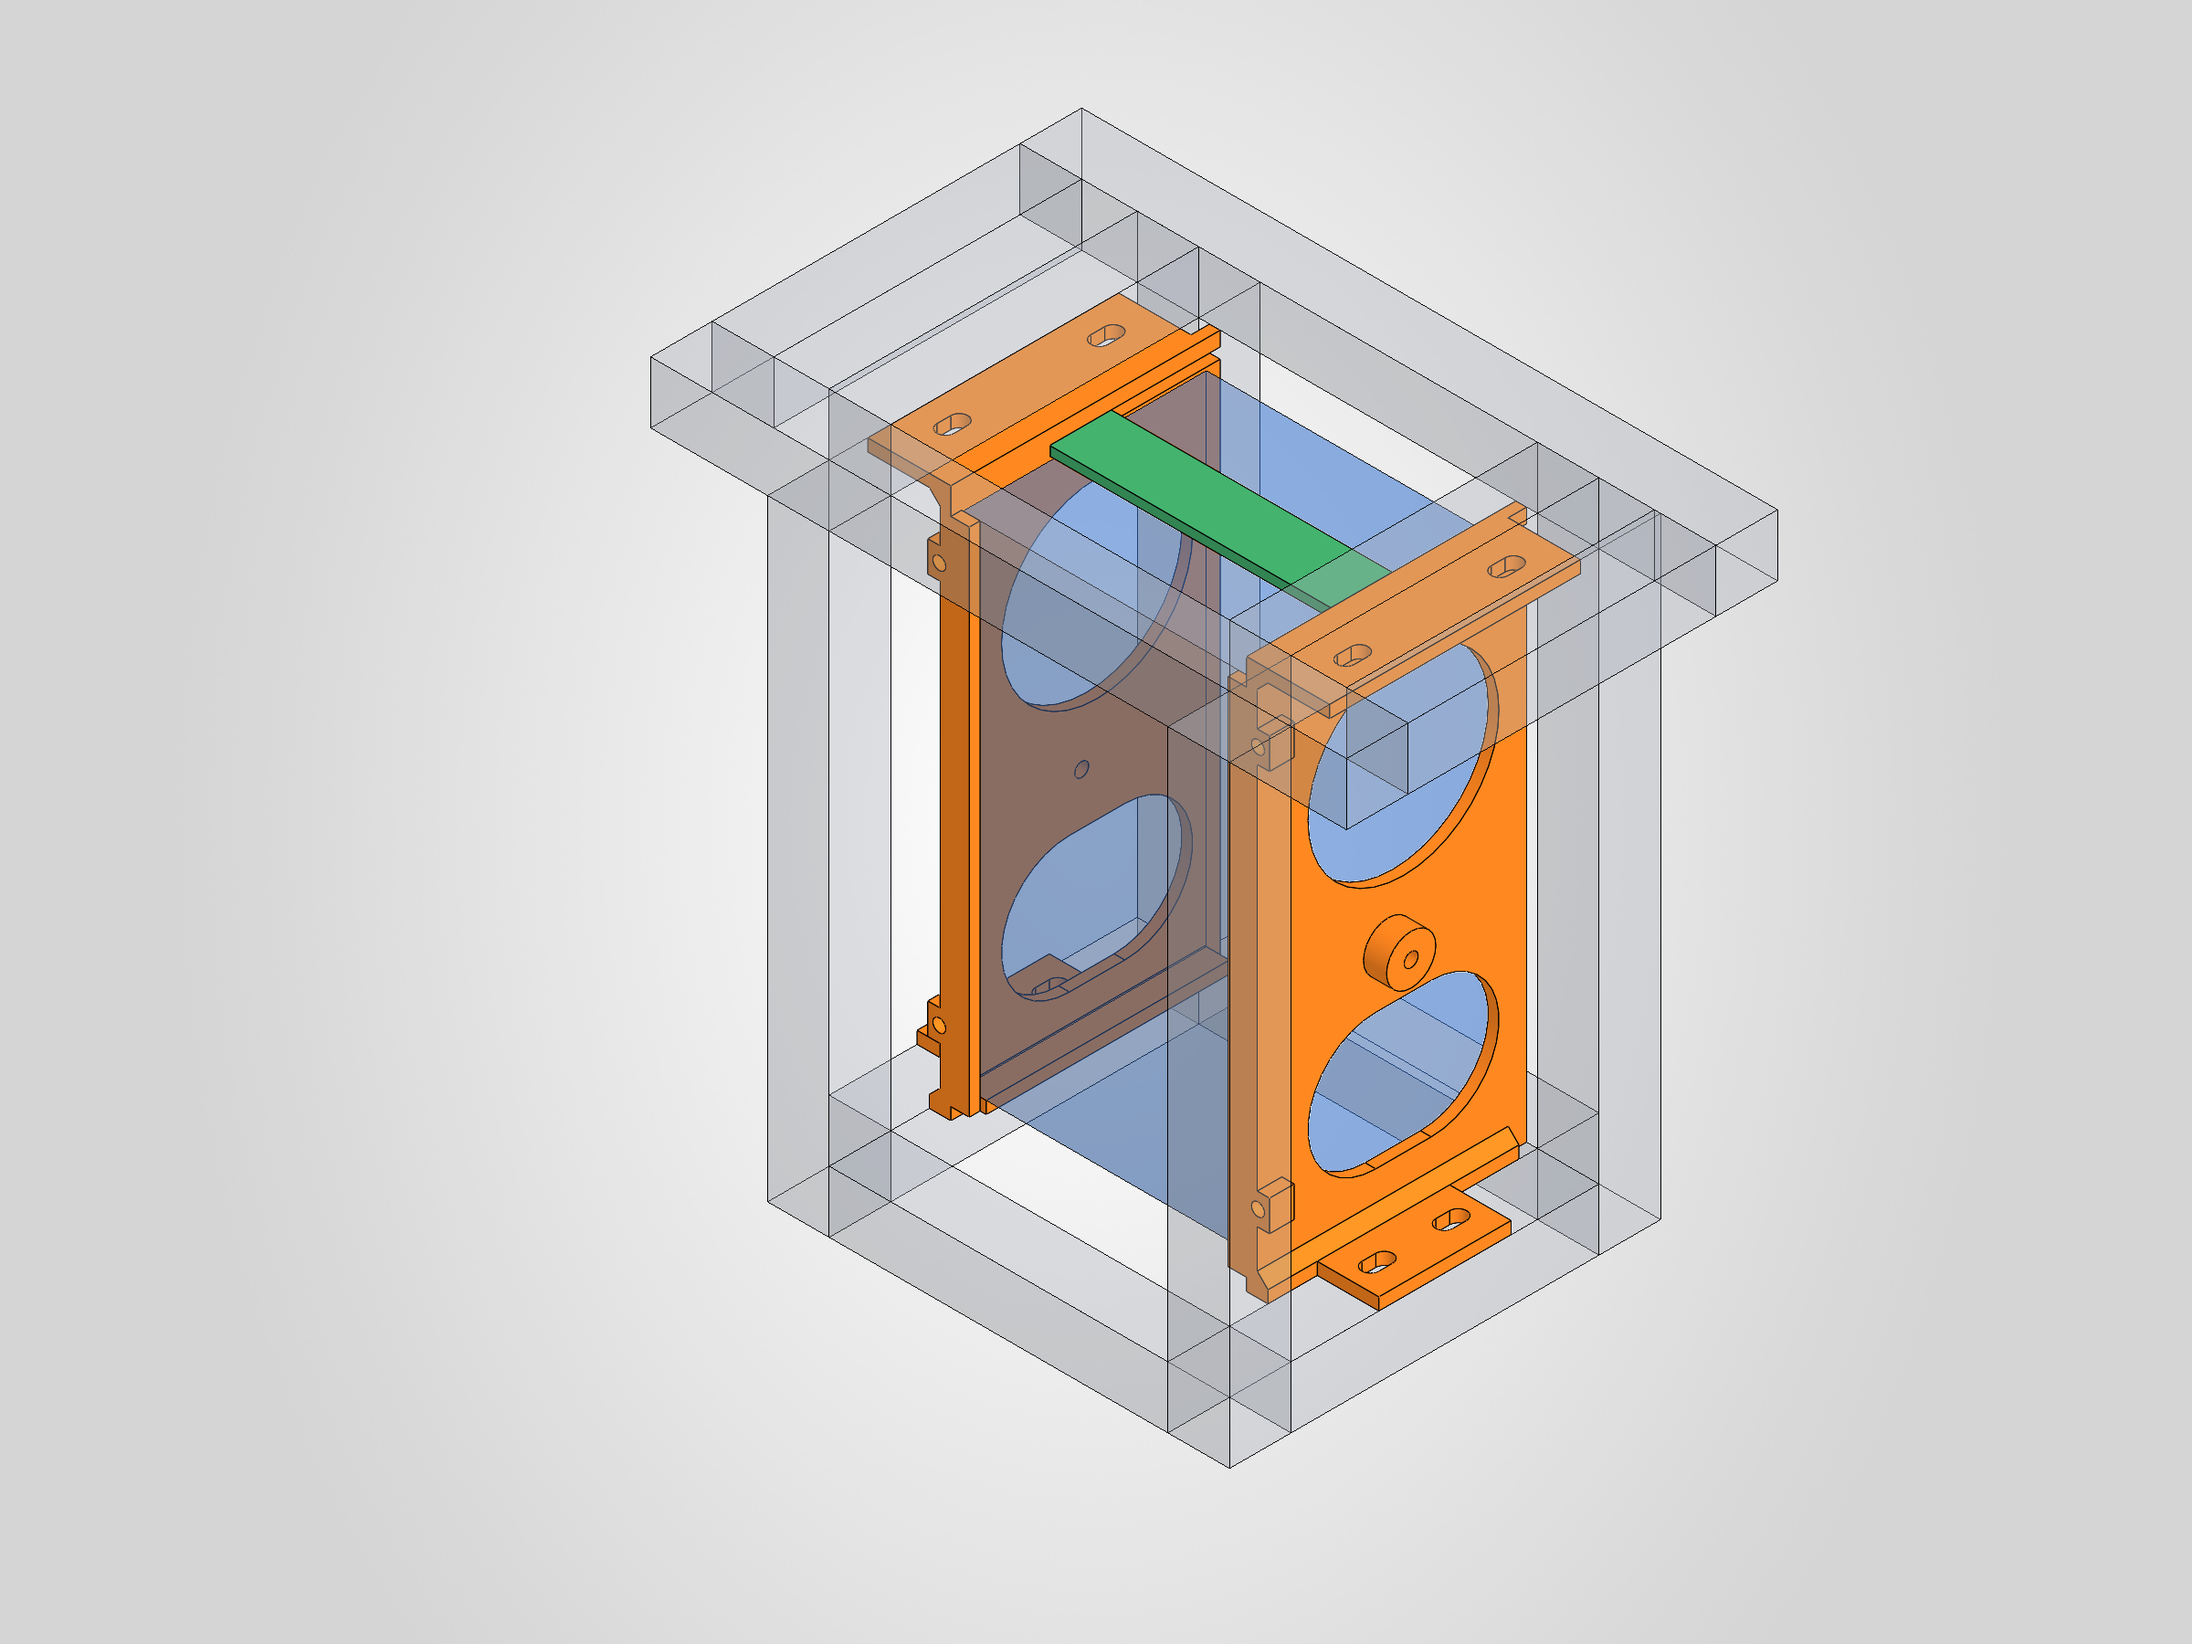
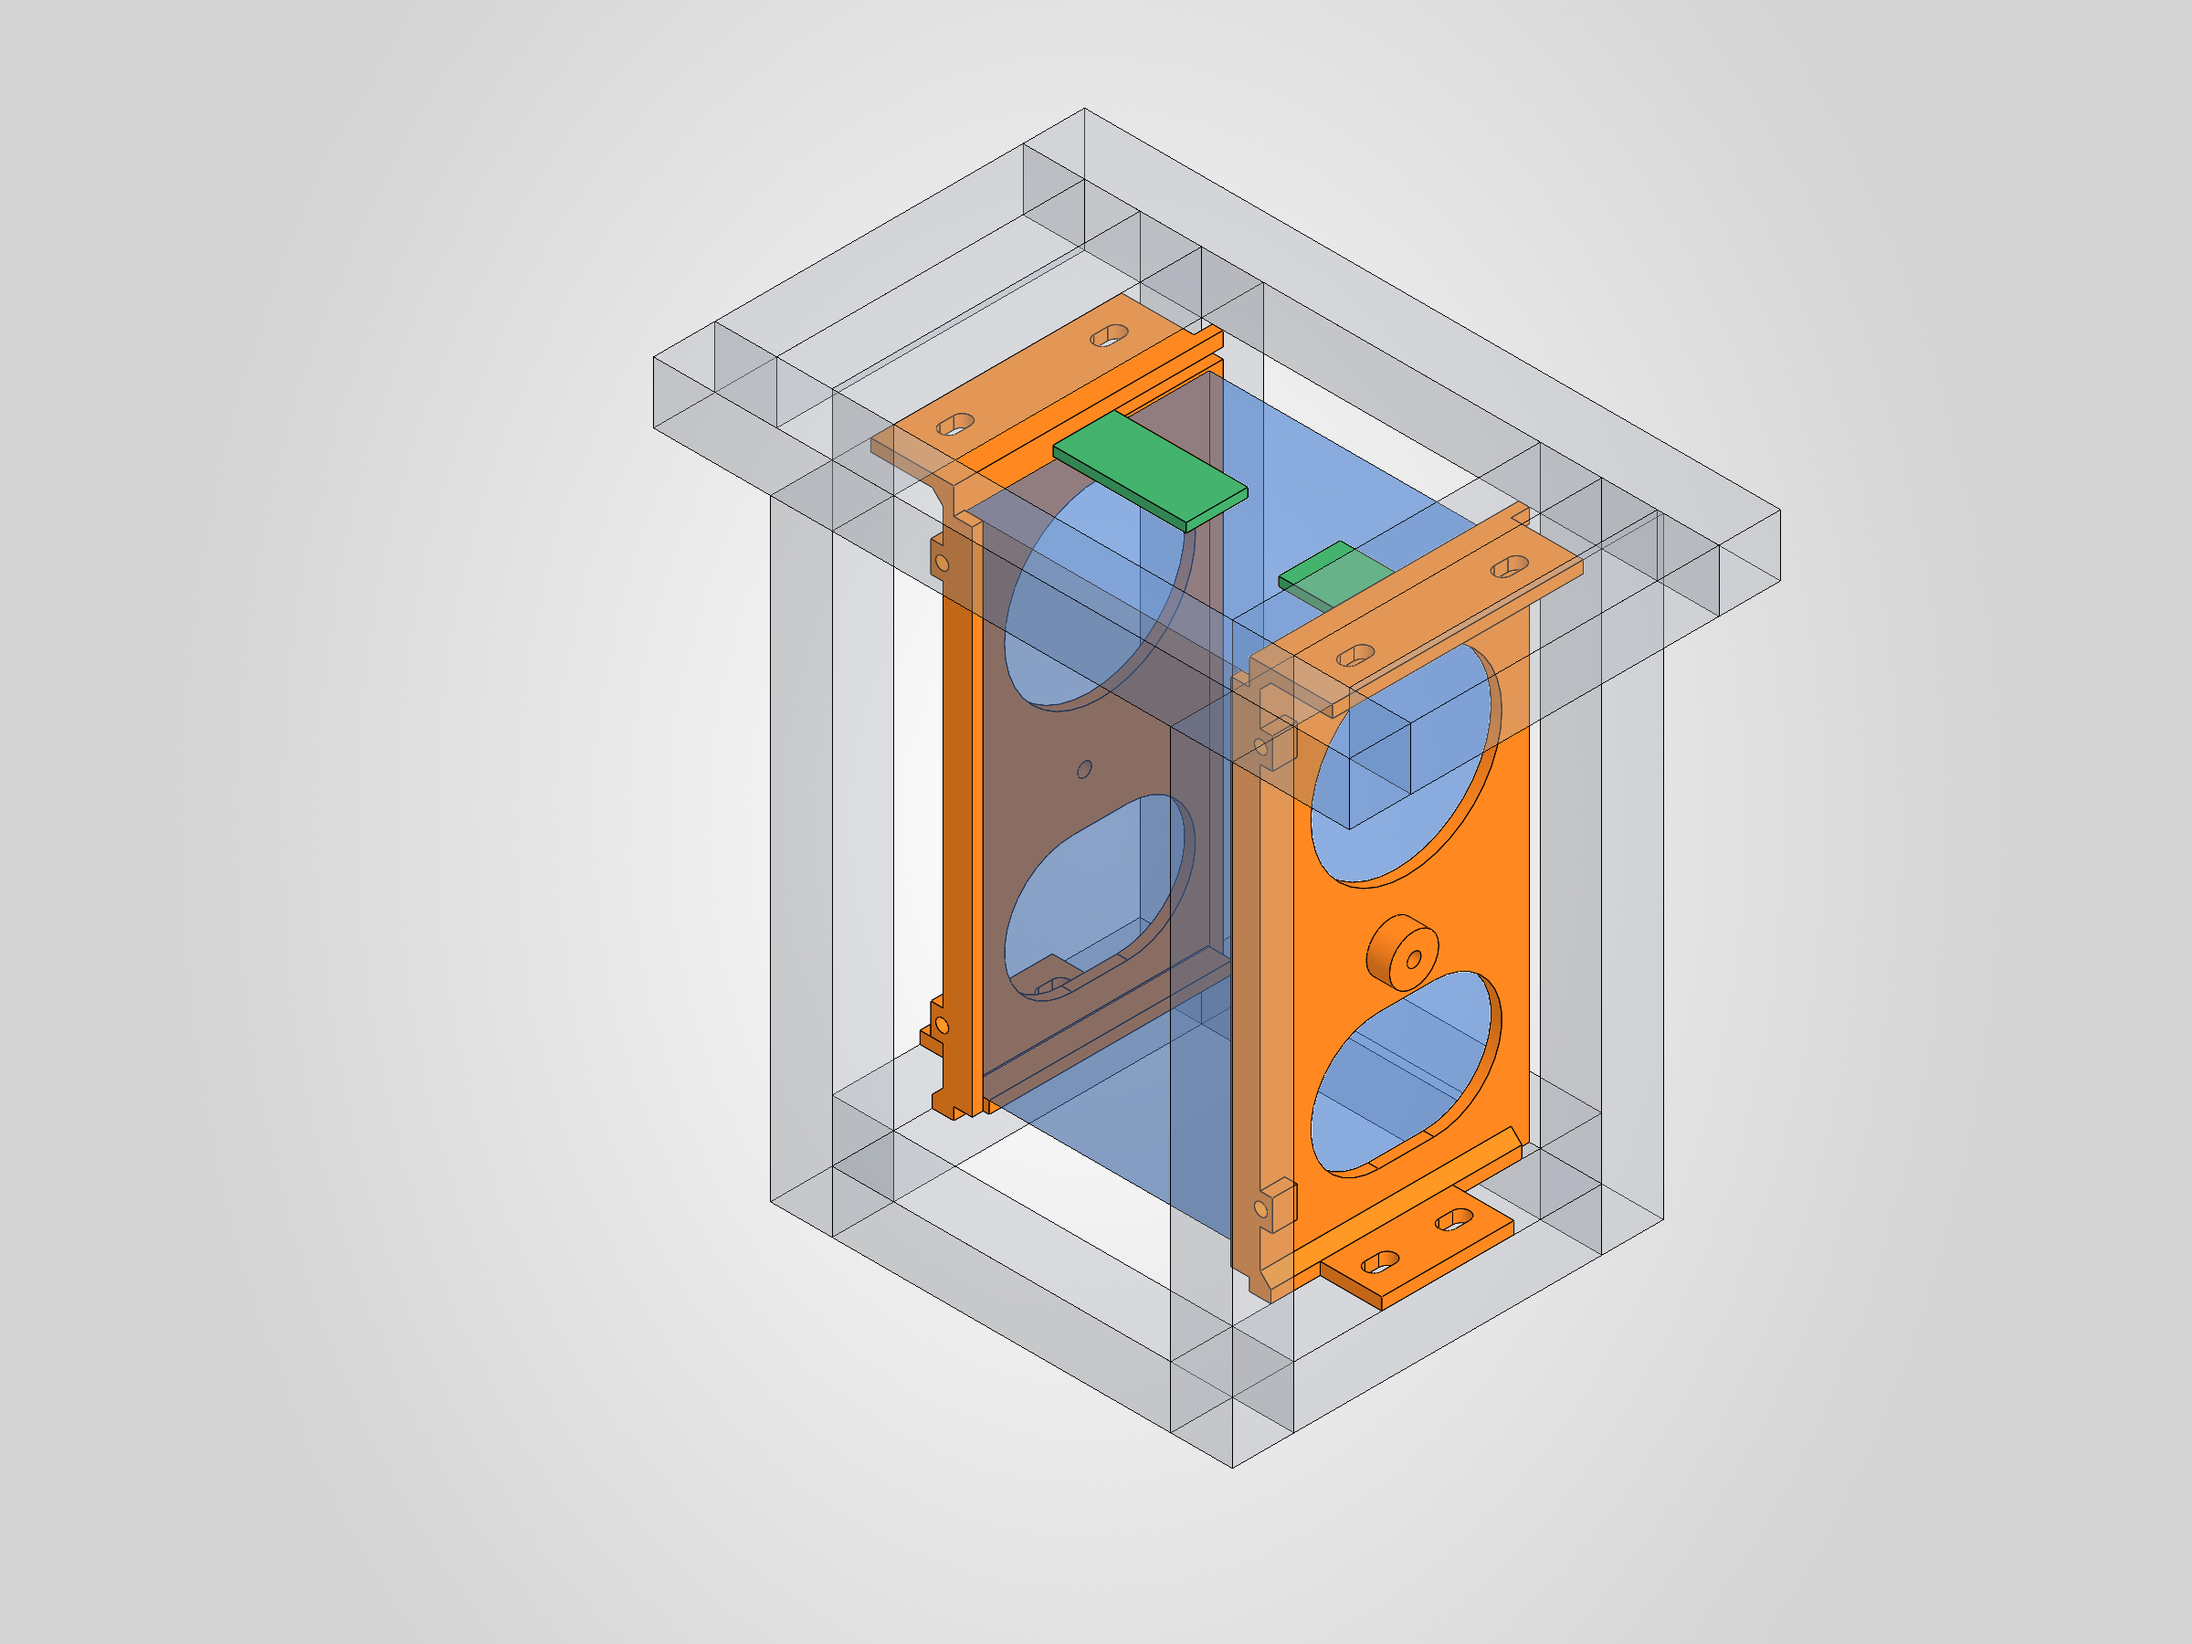
feat(torso-frame): cut the 30 mm lead gap in the cradle top strap

Changed region(s): [[0.375, 0.2178, 0.7812, 0.8711], [0.5, 0.1556, 0.5625, 0.28]]

diff --git a/hardware/designs/torso-frame/cradle/build_cradle.py b/hardware/designs/torso-frame/cradle/build_cradle.py
@@ -18,6 +18,8 @@ NULL = wc.VARIANT(pythoncom.VT_DISPATCH, None)
 PLANES = {"front": "Front Plane", "top": "Top Plane", "right": "Right Plane"}
 MM = 1e-3
 BLIND, START_PLANE, START_OFFSET = 0, 0, 3
+LEAD_GAP = ((-5, 345, -16), (25, 349, 6))
+STRAP_NOTE = "Pack cradle top strap, rev A, two hooks, lead gap X -5 to 25"
 
 
 class Part:
@@ -177,7 +179,8 @@ def build_strap(sw):
         p.sketch("right")
         p.circle(5, 342.5, 4)
         p.extrude(a, b, f"Detent_{n}")
-    p.finish("marengo_torso_cradle_top_strap", "Pack cradle top strap, rev A")
+    p.box(*LEAD_GAP, "Lead_gap", cut=True)  # 30 mm over the pack lead path, leaves two separate hooks
+    p.finish("marengo_torso_cradle_top_strap", STRAP_NOTE)
 
 
 if __name__ == "__main__":

diff --git a/hardware/designs/torso-frame/cradle/check_overlaps.py b/hardware/designs/torso-frame/cradle/check_overlaps.py
@@ -23,7 +23,8 @@ RIGHT = {
 }
 ALL = dict(RIGHT)
 ALL.update({"L_" + k: ((-hi[0], lo[1], lo[2]), (-lo[0], hi[1], hi[2])) for k, (lo, hi) in RIGHT.items()})
-ALL["strap"] = ((-51.7, 345.5, -15), (51.7, 348.5, 5))
+ALL["strap_r"] = ((-51.7, 345.5, -15), (-5, 348.5, 5))
+ALL["strap_l"] = ((25, 345.5, -15), (51.7, 348.5, 5))
 ALL["strap_lip_r"] = ((-54.2, 340.5, -15), (-51.7, 348.5, 5))
 ALL["strap_lip_l"] = ((51.7, 340.5, -15), (54.2, 348.5, 5))
 

diff --git a/hardware/designs/torso-frame/cradle/README.md b/hardware/designs/torso-frame/cradle/README.md
@@ -10,8 +10,8 @@ rebuilds them, `check_overlaps.py` and `mass_estimate.py` give the numbers below
 | --- | --- | --- | --- | --- |
 | `marengo_torso_cradle_side_right` (-X) | 1 | 55,370 | 70.3 | 61 |
 | `marengo_torso_cradle_side_left` (+X) | 1 | 55,370 | 70.3 | 61 |
-| `marengo_torso_cradle_top_strap` | 1 | 7,017 | 8.9 | 8.9 |
-| Set | | | 149.5 | 132 |
+| `marengo_torso_cradle_top_strap` (two hooks) | 1 set | 5,217 | 6.6 | 6.6 |
+| Set | | | 147.2 | 130 |
 
 Solid mass is SolidWorks volume × 1.27 g/cm3. The gyroid figure is a voxel estimate with 1.68 mm walls, so the 3.5 mm web prints almost solid.
 Windows open 34 % of the web. The left side is the same script with X mirrored, not a linked mirror feature.
@@ -44,18 +44,23 @@ Windows open 34 % of the web. The left side is the same script with X mirrored, 
 | Extrusions, corner brackets, their fasteners, brake plate and resistor, `harness_side_*`, gussets, shelf plate | No overlap. Touching at the mounting faces, 0.5 mm from the foot tongue to the bracket legs, 0.98 mm to the shelf plate |
 | `packrail_*` | Overlaps throughout: the cradle replaces these, and `parts.json` still lists them |
 | `pdb_sheet` | **Real.** The lip takes 5.5 × 150 × 0.5 mm per side: the sheet must narrow to \|X\| ≤ 42 |
-| `harness_pack` | **Real.** The strap takes Y 345.5 to 348.5 of this reserve, leaving Y 348.5 to 353.6 (5.1 mm) for the 10 AWG pair and sense harness, 6.1 mm to the shelf plate |
+| `harness_pack` | Clear. The reserve is now X −5 to 25, in the strap gap, so the leads have the full Y 345 to 353.6 (8.6 mm) |
 | `pdb_carrier` | Touches the Z 37.5 face, as intended |
 | Pack | 0.5 mm per side at the webs, 0.5 mm under the strap, 0 mm at the ledge and lip, which bear it |
-| Strap to side | No overlap: 0.2 mm per side at the web, 0.4 mm in slot height |
+| Hook to side | No overlap: 0.2 mm at the web, 0.4 mm in slot height |
 
 Both thumbscrews pull the pack toward their own web, so with the pack centred, tightening closes the 0.5 mm gaps by bowing the webs inward. That needs a check at assembly: it may want a spacer or a limit on tightening.
 
 Not checked: strength (no FEA), and the thumbscrew head against the shell (assumed Ø18 × 6.5 for the frame check).
 Print suggestion, untested: stand each side on its rear edge so the C section lies in the layer plane.
 
-## Pending change (frame thread, 2026-11-06 17:3xZ)
+## Lead gap (2026-11-07)
 
-The pack power leads (10 AWG silicone, 5.2 to 5.8 mm OD) cross the pack top along Z and do not fit the 5.1 mm left above the strap.
-Next SolidWorks pass: cut a **30 mm wide gap through the top strap** at X −5 to +25 (over the lead path), so the strap becomes two
-hooks from the webs; the leads then have the full 8.6 mm (Y 345 to 353.6) in that window. Battery thread prefers this to 12 AWG.
+The pack power leads (10 AWG silicone, 5.2 to 5.8 mm OD) cross the pack top along Z and did not fit the 5.1 mm left above the strap.
+The strap now has a **30 mm gap at X −5 to +25**, through its full height and depth (`Lead_gap` in `build_cradle.py`), so the leads get Y 345 to 353.6 (8.6 mm) there.
+It is now two separate bodies, 6.6 g together: the right hook is X −54.2 to −5 (4.1 g), the left X 25 to 54.2 (2.6 g).
+
+**Open: the hooks have no lateral retention.** Each hook still sits in its web slot with its lip and detent, and still bears the pack.
+But the detent bump reaches only 0.3 mm into the web (bump tip at |X| 51.2, web outer face at 51.5), and it stayed seated only because the far lip held the one-piece strap in X.
+A hook's inner end is now free, so it can slide 0.3 mm outward, lift off its detent, then back out of the rear of the slot, or keep sliding out of the web. Nothing in `parts.json` stops it at that height.
+Only friction holds the hooks, so they need a positive stop before this prints. No fix is modelled yet, and the hooks have had no FEA as cantilevers.
